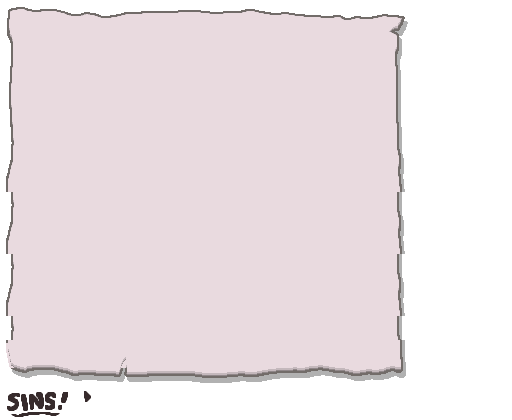
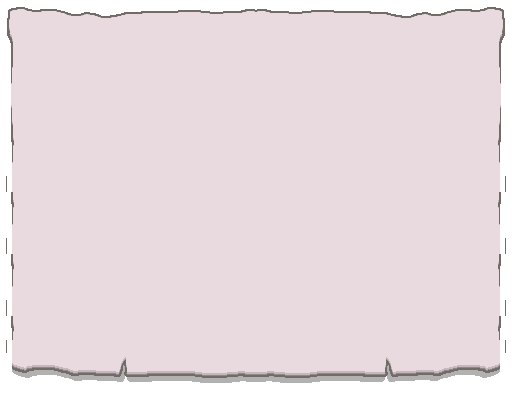
Scale up carousel, fix paper symmetry, improve seed card readability
- CharacterCarousel: scale ring geometry ~20% (H_RADIUS 200->240,
  V_RADIUS 28->34, sprite 64->78px). Pixel art holds up fine at the
  larger size. Widen note to 600px so outermost characters clear the
  torn edge with margin.
- paper-note.png: strip stray "SINS!" ink baked into the source game
  texture (endingsmenupaper.png) via per-column alpha scrub, then
  mirror the left half onto the right for perfect L-R symmetry. The
  carousel was already geometrically centered; the asymmetric torn
  edges just made it look off-center.
- SeedCard: bump font sizes across the board (seed code text-xl->2xl,
  description sm->base, tags/footer 10px->xs, etc.), increase padding
  4->5 and gaps for breathing room, brighten muted text colors for
  contrast. Guard against seed.created being absent (was showing
  "Invalid Date") — schema has no created field yet, tracked separately.

diff --git a/frontend/src/lib/components/SeedCard.svelte b/frontend/src/lib/components/SeedCard.svelte
@@ -21,6 +21,11 @@
 		VERSIONS.find((v) => v.value === seed.version)?.label ?? seed.version
 	);
 
+	const createdLabel = $derived.by(() => {
+		const d = new Date(seed.created);
+		return Number.isNaN(d.getTime()) ? '' : d.toLocaleDateString();
+	});
+
 	async function copyToClipboard() {
 		await navigator.clipboard.writeText(seed.seed);
 		copied = true;
@@ -40,13 +45,13 @@
 	}
 </script>
 
-<div class="rounded-sm p-4 flex flex-col gap-2.5"
+<div class="rounded-sm p-5 flex flex-col gap-3"
 	style="background:#0f0618; border:1px solid #2a1a3e; box-shadow: 0 2px 8px rgba(0,0,0,0.4);">
 
 	<!-- Top row: seed code + copy label + upvote -->
 	<div class="flex items-start gap-3">
 		<button
-			class="font-mono text-xl font-bold tracking-[0.2em] transition-colors cursor-pointer flex-shrink-0"
+			class="font-mono text-2xl font-bold tracking-[0.2em] transition-colors cursor-pointer flex-shrink-0"
 			style="color:#c9a227;"
 			onmouseenter={(e) => ((e.currentTarget as HTMLButtonElement).style.color = '#f0c84a')}
 			onmouseleave={(e) => ((e.currentTarget as HTMLButtonElement).style.color = '#c9a227')}
@@ -57,14 +62,14 @@
 		</button>
 
 		{#if copied}
-			<span class="text-xs mt-1.5" style="color:#5ab85a; font-family:'Cormorant Garamond',serif;">Copied!</span>
+			<span class="text-sm mt-2" style="color:#5ab85a; font-family:'Cormorant Garamond',serif;">Copied!</span>
 		{/if}
 
 		<div class="flex-1"></div>
 
 		<!-- Upvote -->
 		<button
-			class="flex items-center gap-1 text-sm cursor-pointer transition-colors"
+			class="flex items-center gap-1 text-base cursor-pointer transition-colors"
 			style="color: {voted ? '#c9a227' : '#4a3a5a'};"
 			onmouseenter={(e) => { if (!voted) (e.currentTarget as HTMLButtonElement).style.color = '#c9a227'; }}
 			onmouseleave={(e) => { if (!voted) (e.currentTarget as HTMLButtonElement).style.color = '#4a3a5a'; }}
@@ -72,8 +77,8 @@
 			disabled={voted}
 			title="Upvote"
 		>
-			<span class="text-base">▲</span>
-			<span style="font-family:'Cinzel',serif; font-size:0.7rem;">{seed.upvotes + (voted ? 1 : 0)}</span>
+			<span class="text-lg">▲</span>
+			<span style="font-family:'Cinzel',serif; font-size:0.85rem;">{seed.upvotes + (voted ? 1 : 0)}</span>
 		</button>
 	</div>
 
@@ -81,20 +86,20 @@
 	<div class="flex items-center gap-3">
 		<div class="flex items-center gap-0.5">
 			{#each [1, 2, 3, 4, 5] as star}
-				<span style="font-size:0.85rem; color:{star <= seed.difficulty ? '#c9a227' : '#2a1a3e'};">★</span>
+				<span style="font-size:1rem; color:{star <= seed.difficulty ? '#c9a227' : '#2a1a3e'};">★</span>
 			{/each}
 		</div>
-		<span style="font-family:'Cinzel',serif; font-size:0.65rem; color:#9a8aaa; text-transform:uppercase; letter-spacing:0.06em;">{versionLabel}</span>
+		<span style="font-family:'Cinzel',serif; font-size:0.75rem; color:#b0a2c0; text-transform:uppercase; letter-spacing:0.06em;">{versionLabel}</span>
 	</div>
 
 	<!-- Description -->
 	{#if seed.description}
-		<p class="text-sm leading-relaxed" style="color:#c0b8c8; font-family:'Cormorant Garamond',serif;">{seed.description}</p>
+		<p class="text-base leading-relaxed" style="color:#d8d0e0; font-family:'Cormorant Garamond',serif;">{seed.description}</p>
 	{/if}
 
 	<!-- Notable items -->
 	{#if seed.notable_items}
-		<p class="text-xs italic" style="color:#7a6888; font-family:'Cormorant Garamond',serif;">Notable: {seed.notable_items}</p>
+		<p class="text-sm italic" style="color:#8f7ea3; font-family:'Cormorant Garamond',serif;">Notable: {seed.notable_items}</p>
 	{/if}
 
 	<!-- Tags -->
@@ -104,8 +109,8 @@
 				{@const tag = getTag(tagId)}
 				{#if tag}
 					<span
-						class="px-2 py-0.5 rounded-sm text-[10px] uppercase tracking-wider"
-						style="font-family:'Cinzel',serif; background:{tag.color}18; border:1px solid {tag.color}66; color:{tag.color}cc;"
+						class="px-2 py-0.5 rounded-sm text-xs uppercase tracking-wider"
+						style="font-family:'Cinzel',serif; background:{tag.color}18; border:1px solid {tag.color}66; color:{tag.color}dd;"
 					>
 						{tag.label}
 					</span>
@@ -115,15 +120,15 @@
 	{/if}
 
 	<!-- Footer: date + flag -->
-	<div class="flex items-center gap-2 pt-1.5" style="border-top: 1px solid #1e0f2e;">
-		<span class="text-[10px] flex-1" style="color:#4a3a5a; font-family:'Cormorant Garamond',serif;">
-			{new Date(seed.created).toLocaleDateString()}
+	<div class="flex items-center gap-2 pt-2" style="border-top: 1px solid #1e0f2e;">
+		<span class="text-xs flex-1" style="color:#5e4e72; font-family:'Cormorant Garamond',serif;">
+			{createdLabel}
 		</span>
 		<button
-			class="text-[10px] cursor-pointer transition-colors"
-			style="color:{flagged ? '#c23b3b' : '#3a2a4a'}; font-family:'Cormorant Garamond',serif;"
+			class="text-xs cursor-pointer transition-colors"
+			style="color:{flagged ? '#c23b3b' : '#4a3a5a'}; font-family:'Cormorant Garamond',serif;"
 			onmouseenter={(e) => { if (!flagged) (e.currentTarget as HTMLButtonElement).style.color = '#c23b3b'; }}
-			onmouseleave={(e) => { if (!flagged) (e.currentTarget as HTMLButtonElement).style.color = '#3a2a4a'; }}
+			onmouseleave={(e) => { if (!flagged) (e.currentTarget as HTMLButtonElement).style.color = '#4a3a5a'; }}
 			onclick={handleFlag}
 			disabled={flagged}
 			title="Flag as inappropriate"

diff --git a/frontend/src/lib/components/CharacterCarousel.svelte b/frontend/src/lib/components/CharacterCarousel.svelte
@@ -11,13 +11,14 @@
 		isTainted: boolean;
 	} = $props();
 
-	// Ring geometry — gap reduced ~30% vs previous version
+	// Ring geometry — scaled up ~20% from previous version (pixel art holds up fine at larger sizes)
 	const SLOTS     = 10;
-	const H_RADIUS  = 200;  // px from centre to character position
-	const V_RADIUS  = 28;   // vertical depth tilt
+	const H_RADIUS  = 240;  // px from centre to character position
+	const V_RADIUS  = 34;   // vertical depth tilt
 	const SCALE_MAX = 1.5;
 	const SCALE_MIN = 0.28;
 	const VISIBLE   = 3;    // show 3 each side = 7 total
+	const IMG_SIZE  = 78;   // base sprite render size in px
 
 	function ringPos(offset: number) {
 		const angle = (offset / SLOTS) * 2 * Math.PI;
@@ -55,7 +56,7 @@
 <svelte:window onkeydown={handleKey} />
 
 <!-- overflow:hidden keeps all characters within the note boundary -->
-<div class="relative w-full select-none" style="height:186px; overflow:hidden;">
+<div class="relative w-full select-none" style="height:224px; overflow:hidden;">
 	<div class="absolute inset-0 flex items-center justify-center">
 		{#each Array.from({ length: VISIBLE * 2 + 1 }, (_, i) => i - VISIBLE) as offset (offset)}
 			{@const { char, idx } = charAt(offset)}
@@ -68,7 +69,7 @@
 					transform: translate({x}px, {y}px) scale({scale});
 					opacity: {opacity};
 					z-index: {z};
-					width: 64px; height: 64px;
+					width: {IMG_SIZE}px; height: {IMG_SIZE}px;
 					filter: {isFront
 						? `drop-shadow(0 0 10px ${glowColor}99) brightness(1.1)`
 						: `brightness(0.55) saturate(0.5)`};
@@ -80,7 +81,7 @@
 				<img
 					src={char.spriteUrl}
 					alt={char.name}
-					style="width:64px; height:64px; object-fit:contain; image-rendering:pixelated;"
+					style="width:{IMG_SIZE}px; height:{IMG_SIZE}px; object-fit:contain; image-rendering:pixelated;"
 					onerror={(e) => ((e.currentTarget as HTMLImageElement).style.opacity = '0')}
 				/>
 			</button>

diff --git a/frontend/src/routes/+page.svelte b/frontend/src/routes/+page.svelte
@@ -117,10 +117,10 @@
 	</div>
 
 	<!-- Character selection paper note -->
-	<!-- Note is 520 px wide; carousel uses H_RADIUS=200, outermost char at ~213 px from centre,
-	     leaving ~47 px of clear paper on each side before the note edge -->
+	<!-- Note is 600 px wide; carousel uses H_RADIUS=240, outermost char at ~255 px from centre,
+	     leaving clear paper on each side before the note edge -->
 	<div class="paper relative flex flex-col items-center"
-		style="width: min(520px, calc(100vw - 1rem)); padding: 1.4rem 1.2rem 1.2rem;">
+		style="width: min(600px, calc(100vw - 1rem)); padding: 1.4rem 1.2rem 1.2rem;">
 
 		<!-- WHO AM I? -->
 		<h2 class="relative z-10 mb-1" style="